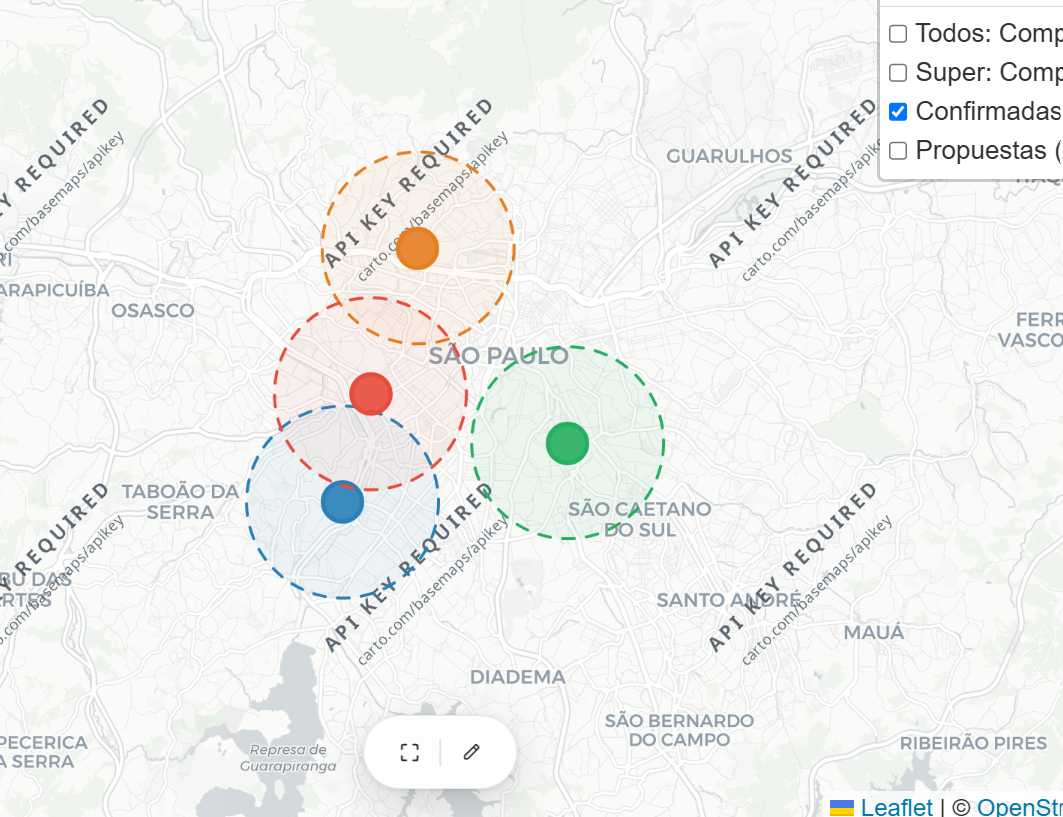
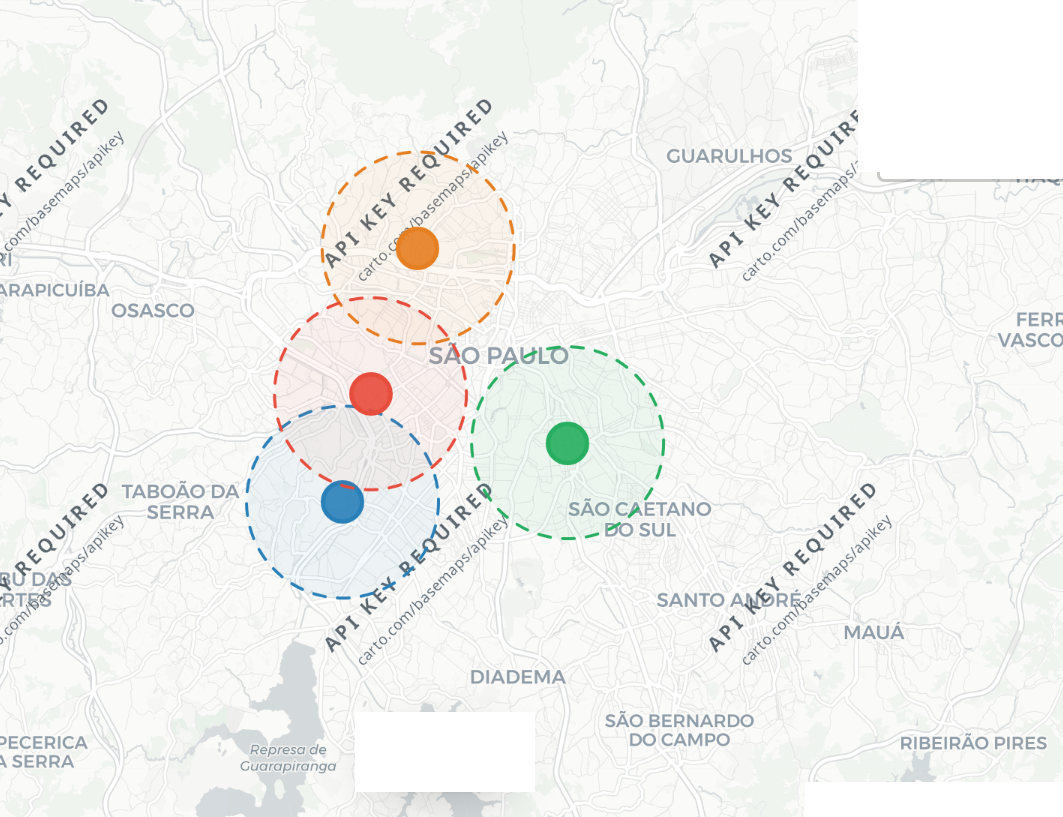
Darkstore SP: limpiar mapa (sacar leyenda/toolbar/atribucion) y hacer el deck editable inline con autoguardado local

diff --git a/darkstore_sp_cobertura_funnel.html b/darkstore_sp_cobertura_funnel.html
@@ -120,6 +120,17 @@ body { font-family:'Segoe UI',Arial,sans-serif; background:#f0f2f5; display:flex
 .ndot { width:8px; height:8px; border-radius:50%; background:rgba(26,36,84,.2); cursor:pointer; }
 .ndot.active { background:#FFB700; }
 #nav-label { color:#888; font-size:12px; min-width:44px; text-align:center; }
+
+.editable { outline:1px dashed transparent; border-radius:3px; }
+.editable:hover { outline-color:#4DC3E8; cursor:text; }
+.editable:focus { outline:1.5px solid #1a2454; outline-style:solid; background:#fffbe0; }
+#edit-toolbar { position:fixed; top:14px; right:18px; display:flex; gap:8px; z-index:50; }
+.edit-btn { background:#1a2454; color:#fff; border:none; font-size:11px; font-weight:700; padding:8px 12px; border-radius:6px; cursor:pointer; box-shadow:0 2px 8px rgba(0,0,0,.2); }
+.edit-btn:hover { background:#2a3570; }
+.edit-btn.reset { background:#c0392b; }
+.edit-btn.reset:hover { background:#a93226; }
+#edit-toast { position:fixed; top:60px; right:18px; background:#00a878; color:#fff; font-size:11px; font-weight:700; padding:7px 12px; border-radius:6px; z-index:50; opacity:0; transition:opacity .25s; pointer-events:none; }
+#edit-toast.show { opacity:1; }
 </style>
 </head>
 <body>
@@ -345,6 +356,12 @@ body { font-family:'Segoe UI',Arial,sans-serif; background:#f0f2f5; display:flex
   <span id="nav-label">1 / 4</span>
 </div>
 
+<div id="edit-toolbar">
+  <button class="edit-btn" id="btn-copy">📋 Copiar valores editados</button>
+  <button class="edit-btn reset" id="btn-reset">↺ Restaurar original</button>
+</div>
+<div id="edit-toast">¡Copiado!</div>
+
 <script>
 const slides=[...document.querySelectorAll('.slide')];
 const dotsC=document.getElementById('nav-dots');
@@ -355,6 +372,41 @@ function goTo(n){slides[cur].classList.remove('active');dotsC.children[cur].clas
 function go(d){if(cur+d>=0&&cur+d<slides.length)goTo(cur+d);}
 document.addEventListener('keydown',e=>{if(e.key==='ArrowRight'||e.key==='ArrowDown')go(1);if(e.key==='ArrowLeft'||e.key==='ArrowUp')go(-1);});
 document.getElementById('btn-prev').disabled=true;
+
+// --- Edición inline con autoguardado local (localStorage) ---
+(function(){
+  const STORAGE_KEY = 'darkstoreSP_funnel_edits_v1';
+  const EDITABLE_SELECTOR = '.metric .lbl, .metric .val, .metric .metric-note, .side-hdr, .dummy-warn, .ref-metric .lbl, .ref-metric .val, .ref-metric .ref-x, .f-bar .f-lbl, .f-bar .f-val, .f-bar .f-note, .f-seg, .f-arrow-chip, .map-caption, .ch-c-audiencia.ch-metric, .ch-c-est.ch-metric, .ch-c-metric.ch-metric, .ch-c-budget.ch-metric';
+  const els = Array.from(document.querySelectorAll(EDITABLE_SELECTOR));
+  const originals = els.map(el => el.innerHTML);
+  let saved = {};
+  try { saved = JSON.parse(localStorage.getItem(STORAGE_KEY) || '{}'); } catch(e) { saved = {}; }
+
+  els.forEach((el, i) => {
+    el.setAttribute('contenteditable', 'true');
+    el.classList.add('editable');
+    if (saved[i] !== undefined) el.innerHTML = saved[i];
+    el.addEventListener('input', () => {
+      saved[i] = el.innerHTML;
+      localStorage.setItem(STORAGE_KEY, JSON.stringify(saved));
+    });
+  });
+
+  const toast = document.getElementById('edit-toast');
+  function showToast(msg){ toast.textContent = msg; toast.classList.add('show'); setTimeout(()=>toast.classList.remove('show'), 1600); }
+
+  document.getElementById('btn-copy').addEventListener('click', () => {
+    const lines = els.map(el => el.textContent.trim()).filter(t => t.length).join('\n');
+    navigator.clipboard.writeText(lines).then(() => showToast('¡Copiado! Pegalo en el chat')).catch(() => showToast('No se pudo copiar'));
+  });
+
+  document.getElementById('btn-reset').addEventListener('click', () => {
+    if (!confirm('¿Restaurar todos los valores originales? Se pierden los cambios guardados en este navegador.')) return;
+    localStorage.removeItem(STORAGE_KEY);
+    els.forEach((el, i) => el.innerHTML = originals[i]);
+    showToast('Restaurado');
+  });
+})();
 </script>
 </body>
 </html>
